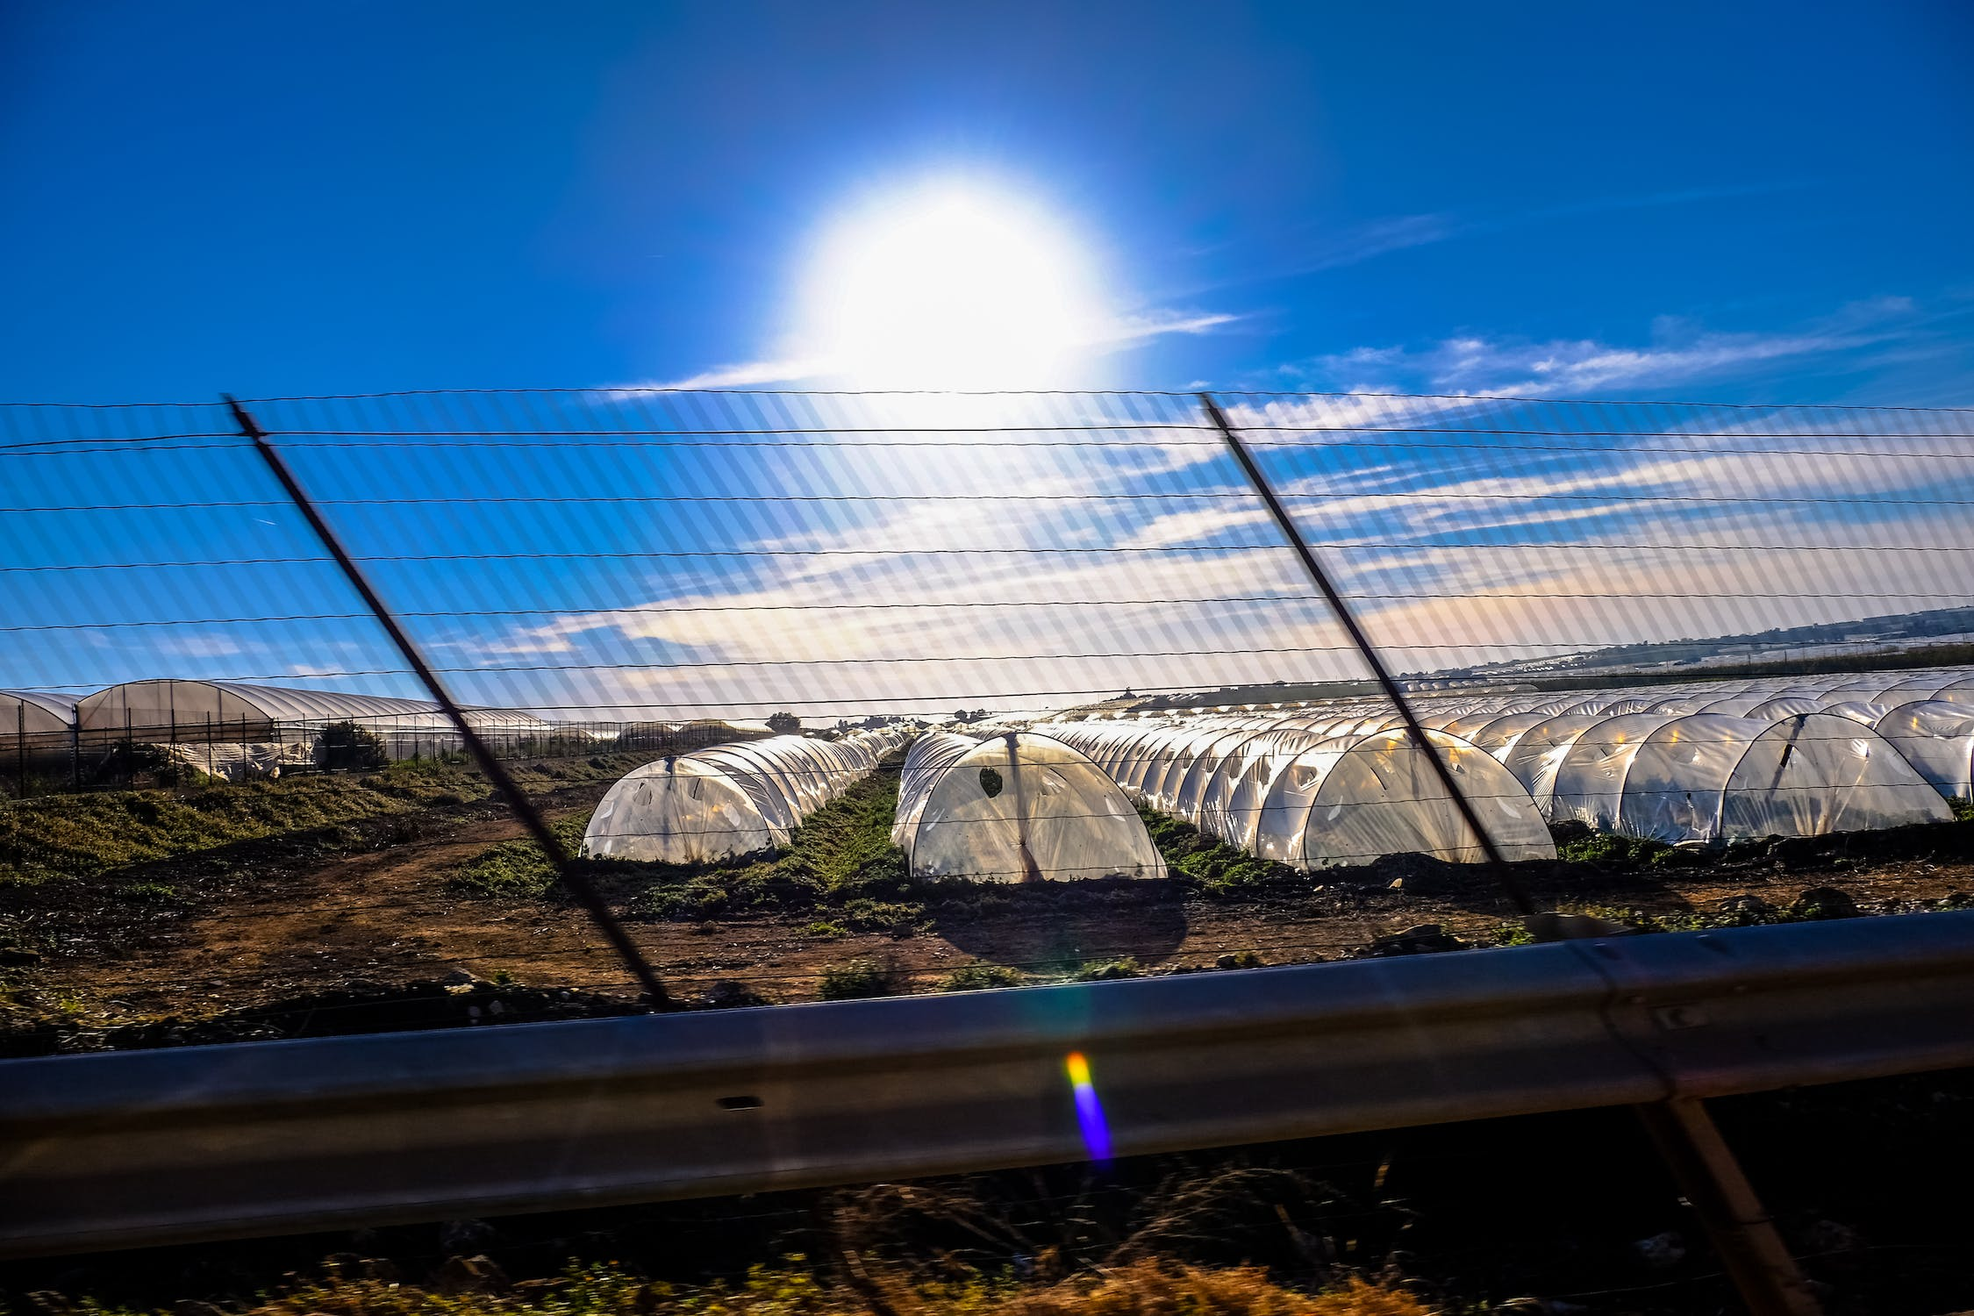
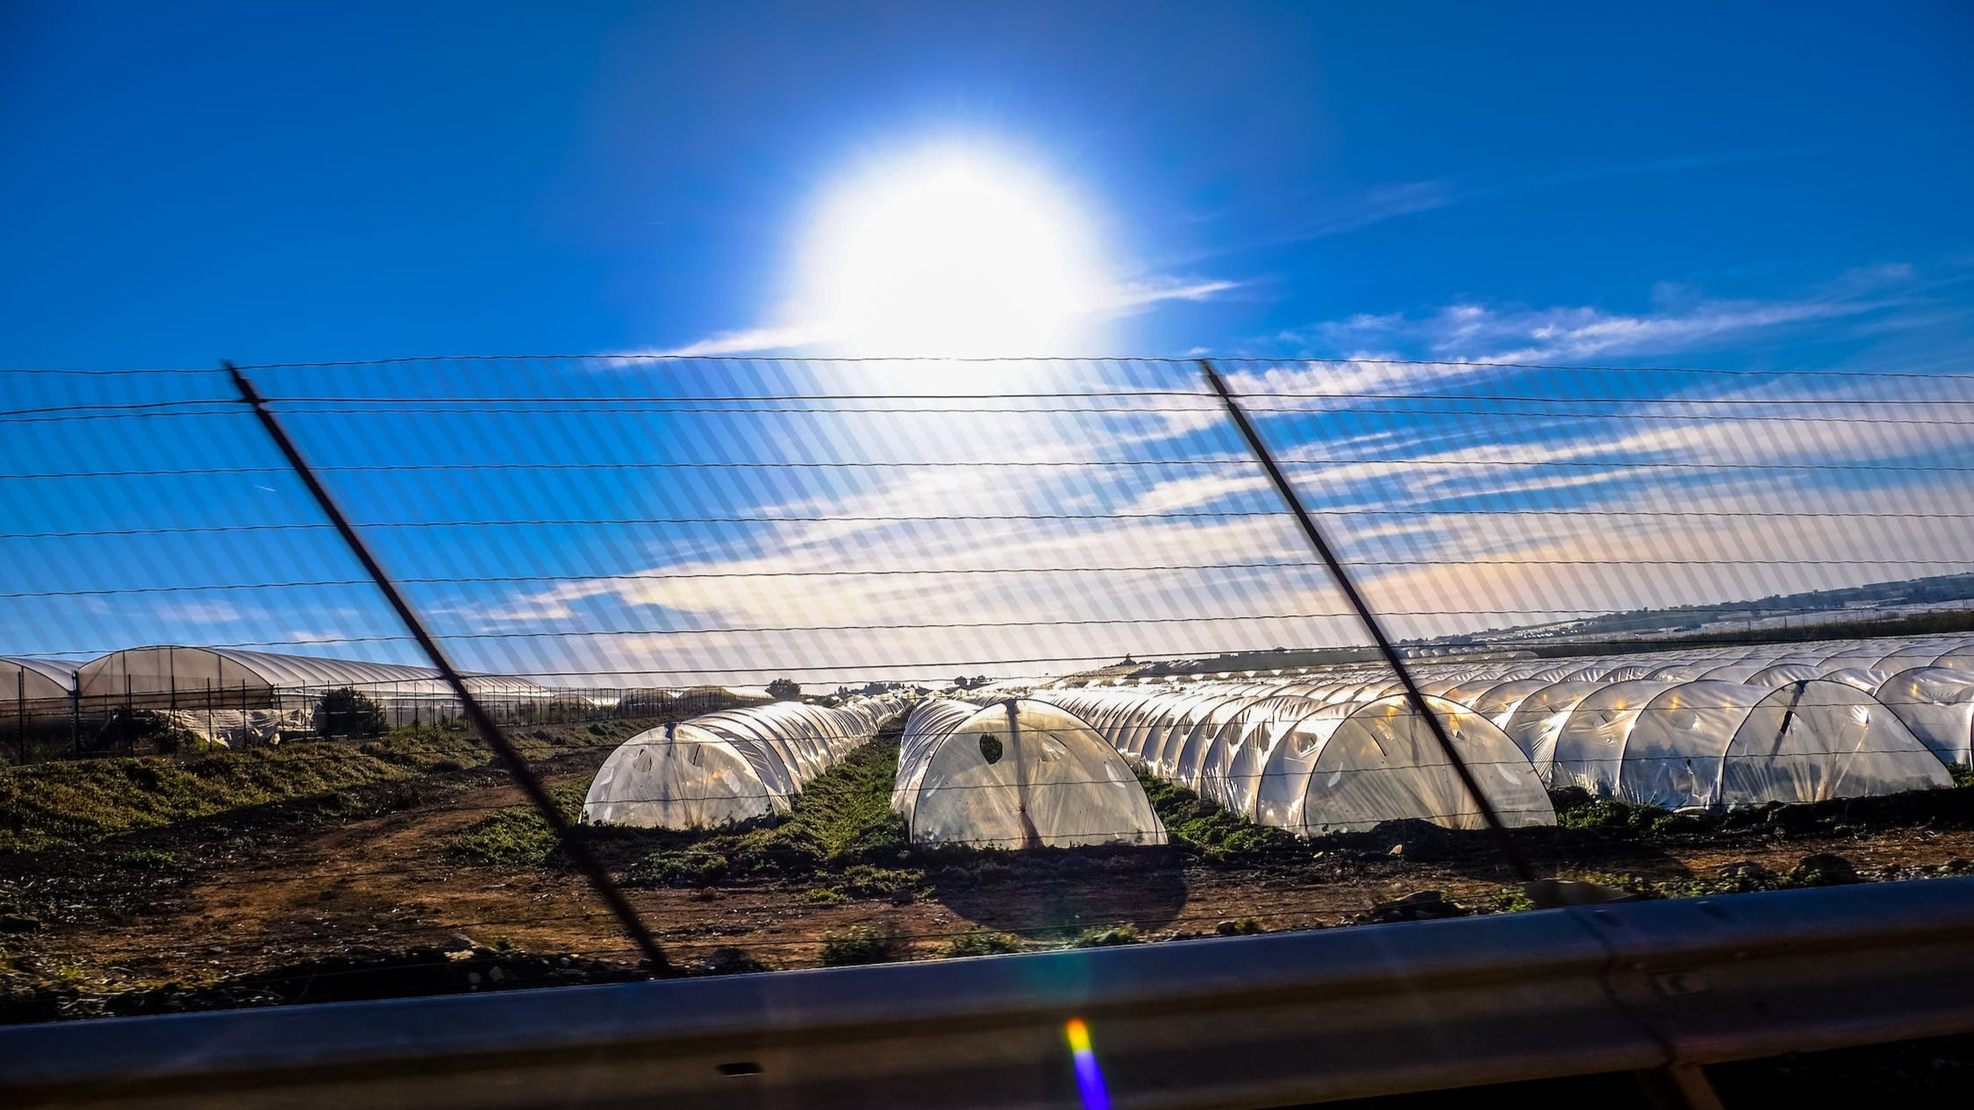
Página completa, solo faltan modificaciones

diff --git a/src/views/Nosotros.jsx b/src/views/Nosotros.jsx
@@ -1,80 +1,37 @@
-import React from 'react'
+import React, {useState} from 'react'
 import Navbar from '../components/Navbar'
 import Footer from '../components/Footer'
-import { IconStarFilled, IconBox, IconCheck, IconUsersGroup } from '@tabler/icons-react'
-import libro from '../img/libro.png'
-import recomendar from '../img/recomendar.png'
-import zumbido from '../img/zumbido.png'
-import acceso from '../img/acceso.png'
+import mision from '../img/mision.jpeg'
+import innovacion from '../img/innovacion.jpeg'
+import brote from '../img/brote.jpeg'
 
 const Nosotros = () => {
   return (
-    <div className='bg-white'>
+    <div>
         <Navbar/>
         <div className='text-center m-10'>
           <span className='block font-semibold text-6xl text-custom-204E51'>
-            Nuestro Servicios
+            Sobre Nosotros
           </span>
-          <span className='block text-lg m-10'>
-            Desde el corazón de la tecnología agrícola, te brindamos una solución completa para optimizar cosechas, respetar recursos y cultivar un futuro sostenible. Descubre nuestros servicios y sé parte de la evolución agrícola con AgroBoost.
+          <span className='block text-2xl m-10 text-justify'>
+            Nuestro equipo está compuesto por profesionales apasionados por la agricultura sostenible y el desarrollo tecnológico. Nos enorgullece ofrecer soluciones inteligentes que aprovechan la potencia de la recopilación y análisis de datos para mejorar la productividad, la eficiencia y la sostenibilidad en el sector agrícola.
           </span>
         </div>
         <div className='flex justify-between m-20'>
-          <div className='bg-custom-F0F0F0 p-8 rounded-lg text-center' style={{ width: '250px', height: '200px' }}>
-            <div className="h-full flex flex-col justify-center items-center"> 
-              <img src={libro} alt='libro' className='h-full' /> 
-              <span>Recursos Educativos Integrados</span>
-            </div>
+          <div className='flex-col text-justify' style={{ width: '300px', height: 'auto'}}>
+            <img src={mision} alt='mision' className='rounded-2xl'/>
+            <span className='block text-center text-custom-264948 font-semibold text-xl mt-2 mb-2'>Misión Transformadora</span>
+            <span>Nuestra misión es empoderar a los agricultores, mejorar la eficiencia de las operaciones agrícolas y contribuir a un sector más sostenible.</span>
           </div>
-          <div className='bg-custom-F0F0F0 p-8 rounded-lg text-center' style={{ width: '250px', height: '200px' }}>
-            <div className="h-full flex flex-col justify-center items-center"> 
-              <img src={recomendar} alt='recomendar'  className='h-full'/>
-              <span>Recomendaciones Integradas</span>
-            </div>
+          <div className='flex-col text-justify' style={{ width: '300px', height: 'auto'}}>
+            <img src={innovacion} alt='innovacion' className='rounded-2xl'/>
+            <span className='block text-center text-custom-264948 font-semibold text-xl  mt-2 mb-2'>Compromiso con la Innovación</span>
+            <span>Nuestro equipo de profesionales está comprometido con la investigación y desarrollo continuo, asegurando que nuestras soluciones reflejen las últimas tendencias y avances tecnológicos.</span>
           </div>
-          <div className='bg-custom-F0F0F0 p-8 rounded-lg text-center' style={{ width: '250px', height: '200px' }}>
-            <div className="h-full flex flex-col justify-center items-center"> 
-              <img src={zumbido} alt='zumbido' className='h-full'/>
-              <span>Sistemas Automáticos</span>
-            </div>
-          </div>
-          <div className='bg-custom-F0F0F0 p-8 rounded-lg text-center' style={{ width: '250px', height: '200px' }}>
-            <div className="h-full flex flex-col justify-center items-center"> 
-              <img src={acceso} alt='acceso' className='h-full'/>
-              <span>Acceso Remoto y Control</span>
-            </div>
-          </div>
-        </div>
-        <div className='flex justify-center items-center m-20'>
-          <div className='mr-36'>
-            <span className='block text-custom-204E51 text-3xl font-medium'>Los beneficios de elegir nuestra experiencia</span>
-            <span className='block text-lg mt-6'>Descubre cómo AgroBoost revoluciona tu experiencia agrícola con una gama de beneficios diseñados para optimizar y potenciar tus cosechas:</span>
-          </div>
-          <div className='bg-custom-204E51 p-20 text-white text-lg font-medium rounded-3xl'>
-            <div className='flex justify-between items-center m-4'>
-              <div className='bg-custom-264948 p-5 rounded-full'>
-                <IconStarFilled size={40}/>
-              </div>
-              <span className='ml-14'>Crecimiento Eficiente</span>
-            </div>
-            <div className='flex justify-center items-center m-4'>
-              <div className='bg-custom-264948 p-5 rounded-full'>
-                <IconBox size={40}/>
-              </div>
-              <span className='ml-14' style={{ whiteSpace: 'initial' }}>Ahorro de Tiempo <br /> y Recursos</span>
-            </div>
-            <div className='flex justify-center items-center m-4'>
-              <div className='bg-custom-264948 p-5 rounded-full'>
-                <IconCheck size={40}/>
-              </div>
-              <span className='ml-14'>Sostenibilidad Agrícola</span>
-            </div>
-            <div className='flex justify-center items-center m-4'>
-              <div className='bg-custom-264948 p-5 rounded-full'>
-                <IconUsersGroup size={40}/>
-              </div>
-              <span className='ml-14'>Innovación Continua</span>
-            </div>
+          <div className='flex-col text-justify' style={{ width: '300px', height: 'auto'}}>
+            <img src={brote} alt='brote' className='rounded-2xl'/>
+            <span className='block text-center text-custom-264948 font-semibold text-xl  mt-2 mb-2'>Sostenibilidad Agrícola</span>
+            <span>Buscamos equilibrar el aumento de la productividad con prácticas respetuosas con el medio ambiente, promoviendo un futuro agrícola que sea rentable y sostenible a largo plazo.</span>
           </div>
         </div>
         <Footer/>

diff --git a/src/views/Servicio.jsx b/src/views/Servicio.jsx
@@ -1,0 +1,85 @@
+import React from 'react'
+import Navbar from '../components/Navbar'
+import Footer from '../components/Footer'
+import { IconStarFilled, IconBox, IconCheck, IconUsersGroup } from '@tabler/icons-react'
+import libro from '../img/libro.png'
+import recomendar from '../img/recomendar.png'
+import zumbido from '../img/zumbido.png'
+import acceso from '../img/acceso.png'
+
+const Servicio = () => {
+  return (
+    <div className='bg-white'>
+        <Navbar/>
+        <div className='text-center m-10'>
+          <span className='block font-semibold text-6xl text-custom-204E51'>
+            Nuestro Servicios
+          </span>
+          <span className='block text-2xl m-10'>
+            Desde el corazón de la tecnología agrícola, te brindamos una solución completa para optimizar cosechas, respetar recursos y cultivar un futuro sostenible. Descubre nuestros servicios y sé parte de la evolución agrícola con AgroBoost.
+          </span>
+        </div>
+        <div className='flex justify-between m-20'>
+          <div className='bg-custom-F0F0F0 p-8 rounded-lg text-center' style={{ width: '250px', height: '200px' }}>
+            <div className="h-full flex flex-col justify-center items-center"> 
+              <img src={libro} alt='libro' className='h-full' /> 
+              <span>Recursos Educativos Integrados</span>
+            </div>
+          </div>
+          <div className='bg-custom-F0F0F0 p-8 rounded-lg text-center' style={{ width: '250px', height: '200px' }}>
+            <div className="h-full flex flex-col justify-center items-center"> 
+              <img src={recomendar} alt='recomendar'  className='h-full'/>
+              <span>Recomendaciones Integradas</span>
+            </div>
+          </div>
+          <div className='bg-custom-F0F0F0 p-8 rounded-lg text-center' style={{ width: '250px', height: '200px' }}>
+            <div className="h-full flex flex-col justify-center items-center"> 
+              <img src={zumbido} alt='zumbido' className='h-full'/>
+              <span>Sistemas Automáticos</span>
+            </div>
+          </div>
+          <div className='bg-custom-F0F0F0 p-8 rounded-lg text-center' style={{ width: '250px', height: '200px' }}>
+            <div className="h-full flex flex-col justify-center items-center"> 
+              <img src={acceso} alt='acceso' className='h-full'/>
+              <span>Acceso Remoto y Control</span>
+            </div>
+          </div>
+        </div>
+        <div className='flex justify-center items-center m-20'>
+          <div className='mr-36'>
+            <span className='block text-custom-204E51 text-3xl font-medium'>Los beneficios de elegir nuestra experiencia</span>
+            <span className='block text-lg mt-6'>Descubre cómo AgroBoost revoluciona tu experiencia agrícola con una gama de beneficios diseñados para optimizar y potenciar tus cosechas:</span>
+          </div>
+          <div className='bg-custom-204E51 p-20 text-white text-lg font-medium rounded-3xl'>
+            <div className='flex justify-between items-center m-4'>
+              <div className='bg-custom-264948 p-5 rounded-full'>
+                <IconStarFilled size={40}/>
+              </div>
+              <span className='ml-14'>Crecimiento Eficiente</span>
+            </div>
+            <div className='flex justify-center items-center m-4'>
+              <div className='bg-custom-264948 p-5 rounded-full'>
+                <IconBox size={40}/>
+              </div>
+              <span className='ml-14' style={{ whiteSpace: 'initial' }}>Ahorro de Tiempo <br /> y Recursos</span>
+            </div>
+            <div className='flex justify-center items-center m-4'>
+              <div className='bg-custom-264948 p-5 rounded-full'>
+                <IconCheck size={40}/>
+              </div>
+              <span className='ml-14'>Sostenibilidad Agrícola</span>
+            </div>
+            <div className='flex justify-center items-center m-4'>
+              <div className='bg-custom-264948 p-5 rounded-full'>
+                <IconUsersGroup size={40}/>
+              </div>
+              <span className='ml-14'>Innovación Continua</span>
+            </div>
+          </div>
+        </div>
+        <Footer/>
+    </div>
+  )
+}
+
+export default Servicio

diff --git a/src/views/Producto.jsx b/src/views/Producto.jsx
@@ -1,0 +1,51 @@
+import React from 'react'
+import Footer from '../components/Footer'
+import Navbar from '../components/Navbar'
+import invernadero from '../img/invernaderos.jpeg'
+import regar from '../img/pexels-fox-750836.jpg'
+import sensor from '../img/sensor.jpeg'
+import nutriente from '../img/nutriente.jpeg'
+import monitoreo from '../img/monitoreo.jpeg'
+
+const Producto = () => {
+  return (
+    <div>
+        <Navbar/>
+        <div>
+            <div className='flex flex-col text-center m-10'>
+                <span className='text-custom-264948 font-semibold text-6xl mb-12'>Nuestro Producto Destacado</span>
+                <span className='text-2xl m-10'>Estos dispositivos inteligentes están diseñados para proporcionar datos precisos y en tiempo real, llevando la gestión de tu invernadero a un nivel superior.</span>
+            </div>
+            <div className='flex justify-between m-20 text-lg'>
+                <div className='bg-custom-F0F0F0 p-8 rounded-lg text-center' style={{ width: '230px', height: '300px' }}>
+                    <div className="h-full flex flex-col justify-center items-center"> 
+                        <img src={regar} alt='regar' className='h-full rounded-lg mb-4' /> 
+                        <span>Sensor de Humedad del Suelo</span>
+                    </div>
+                </div>
+                <div className='bg-custom-F0F0F0 p-8 rounded-lg text-center' style={{ width: '230px', height: '300px' }}>
+                    <div className="h-full flex flex-col justify-center items-center"> 
+                        <img src={sensor} alt='sensor'  className='h-full rounded-lg mb-4'/>
+                        <span>Sensor de Temperatura</span>
+                    </div>
+                </div>
+                <div className='bg-custom-F0F0F0 p-8 rounded-lg text-center' style={{ width: '230px', height: '300px' }}>
+                    <div className="h-full flex flex-col justify-center items-center"> 
+                        <img src={nutriente} alt='nutriente' className='h-full rounded-lg mb-4'/>
+                        <span>Sensor de Nutrientes</span>
+                    </div>
+                </div>
+                <div className='bg-custom-F0F0F0 p-8 rounded-lg text-center' style={{ width: '230px', height: '300px' }}>
+                    <div className="h-full flex flex-col justify-center items-center"> 
+                        <img src={monitoreo} alt='monitoreo' className='h-full rounded-lg mb-4'/>
+                        <span>Conectividad Inalámbrica</span>
+                    </div>
+                </div>
+            </div>
+        </div>
+        <Footer/>
+    </div>
+  )
+}
+
+export default Producto

diff --git a/src/views/Inicio.jsx b/src/views/Inicio.jsx
@@ -1,10 +1,10 @@
-import React from 'react';
+import React, {useState} from 'react';
 import Navbar from '../components/Navbar';
 import plantio from '../img/plantio.jpeg';
 import monitorear from '../img/monitorear.jpeg';
 import Button from '../components/Button';
 import Footer from '../components/Footer';
-import nosotros from '../img/invernadero.jpeg'
+import nosotros from '../img/pexels-adrien-olichon-3767172.jpg'
 import servicio from '../img/dron.png'
 
 
@@ -48,7 +48,7 @@ const Inicio = () => {
             En AgroBoost, nos apasiona impulsar el futuro de la agricultura mediante soluciones tecnológicas de vanguardia. Fundada por un equipo de expertos en agronomía y desarrollo de software, nuestra misión es proporcionar a los agricultores las herramientas necesarias para superar los desafíos modernos y cosechar los frutos del éxito sostenible.
           </span>
           <div className='flex justify-center'>
-            <Button text="Conoce Más"/>
+            <Button text="Conoce Más" to="/nosotros"/>
           </div>
         </div>
       </div>
@@ -61,7 +61,7 @@ const Inicio = () => {
             AgroBoost va más allá de ser una aplicación; es tu socio en el campo. Desde el monitoreo del clima hasta el análisis detallado del suelo, ofrecemos un conjunto integral de servicios para mejorar la eficiencia, aumentar la productividad y promover prácticas agrícolas sostenibles. Descubre cómo AgroBoost está transformando la manera en que cultivas.
           </span>
           <div className='flex justify-center'>
-            <Button text='Descubre Más'/>
+            <Button text='Descubre Más' to="/servicio"/>
           </div>
         </div>
         <div className='m-10 relative shadow-2xl rounded-2xl'>

diff --git a/src/components/Navbar.js b/src/components/Navbar.js
@@ -1,5 +1,6 @@
-import React from 'react'
+import React, {useState} from 'react'
 import Logo from '../img/LogoAgroBoostPNG.svg'
+import { Link } from 'react-router-dom';
 
 const Navbar = () => {
   return (
@@ -9,10 +10,10 @@ const Navbar = () => {
           <h1 className='font-semibold text-2xl'>AgroBoost</h1>
         </div>
       <div className='flex items-center'>
-          <span className='mr-5 text-xl'>Inicio</span>
-          <span className='mr-5 text-xl'>Sobre Nosotros</span>
-          <span className='mr-5 text-xl'>Nuestro Servicios</span>
-          <span className='mr-5 text-xl'>Productos</span>
+          <Link to="/" className='mr-5 text-2xl cursor-pointer hover:underline hover:text-custom-264948 hover:font-medium'>Inicio</Link>
+          <Link to="/nosotros" className='mr-5 text-2xl cursor-pointer hover:underline hover:text-custom-264948 hover:font-medium'>Sobre Nosotros</Link>
+          <Link to="/servicio" className='mr-5 text-2xl cursor-pointer hover:underline hover:text-custom-264948 hover:font-medium'>Nuestro Servicios</Link>
+          <Link to="/producto" className='mr-5 text-2xl cursor-pointer hover:underline hover:text-custom-264948 hover:font-medium'>Productos</Link>
       </div>
     </div>
   )

diff --git a/src/components/Footer.js b/src/components/Footer.js
@@ -1,6 +1,7 @@
 import React from 'react';
 import facebook from '../img/facebook.png';
 import instagram from '../img/instagram.png';
+import { Link } from 'react-router-dom';
 
 const Footer = () => {
   return (
@@ -21,10 +22,10 @@ const Footer = () => {
         </div>
         <div className='text-left m-10 text-white'>
             <span className='block font-semibold mb-2 text-lg'>Enlaces Rápidos:</span>
-            <span className='block'>Inicio</span>
-            <span className='block'>Sobre Nosotros</span>
-            <span className='block'>Nuestro Servicio</span>
-            <span className='block'>Producto</span>
+            <Link to="/" className='block'>Inicio</Link>
+            <Link to="/nosotros" className='block'>Sobre Nosotros</Link>
+            <Link to="/servicio" className='block'>Nuestro Servicio</Link>
+            <Link to="/producto" className='block'>Producto</Link>
         </div>
       </div>
       <div className='justify-center text-center text-white'>

diff --git a/src/App.js b/src/App.js
@@ -1,10 +1,19 @@
 import logo from './logo.svg';
 import './App.css';
 import Inicio from './views/Inicio';
+import Nosotros from './views/Nosotros'
+import Producto from './views/Producto';
+import Servicio from './views/Servicio';
+import { BrowserRouter as Router, Route, Routes } from 'react-router-dom';
 
 function App() {
   return (
-    <Inicio/>
+    <Routes>
+      <Route path='/' element={<Inicio/>}/>
+      <Route path='/nosotros' element={<Nosotros/>}/>
+      <Route path='/producto' element={<Producto/>}/>
+      <Route path='/servicio' element={<Servicio/>}/>
+    </Routes>
   );
 }
 

diff --git a/src/components/Button.js b/src/components/Button.js
@@ -1,10 +1,11 @@
 import React from 'react'
+import { Link } from 'react-router-dom'
 
-const Button = ({text}) => {
+const Button = ({text, to}) => {
   return (
-    <div className='bg-custom-204E51 p-3 max-w-max max-h-max rounded-lg mt-5'>
+    <Link to={to} className='bg-custom-204E51 p-3 max-w-max max-h-max rounded-lg mt-5'>
         <span className='m-6 font-bold text-white'>{text}</span>
-    </div>
+    </Link>
   )
 }
 

diff --git a/src/index.js b/src/index.js
@@ -3,11 +3,14 @@ import ReactDOM from 'react-dom/client';
 import './index.css';
 import App from './App';
 import reportWebVitals from './reportWebVitals';
+import { BrowserRouter as Router } from 'react-router-dom';
 
 const root = ReactDOM.createRoot(document.getElementById('root'));
 root.render(
   <React.StrictMode>
-    <App />
+    <Router>
+      <App />
+    </Router>
   </React.StrictMode>
 );
 

diff --git a/tailwind.config.js b/tailwind.config.js
@@ -5,7 +5,9 @@ module.exports = {
     "./src/components/Navbar.js",
     "./src/views/Inicio.jsx",
     "./src/components/Button.js",
-    "./src/views/Nosotros.jsx"
+    "./src/views/Nosotros.jsx",
+    "./src/views/Producto.jsx",
+    "./src/views/Servicio.jsx"
   ],
   theme: {
     extend: {
